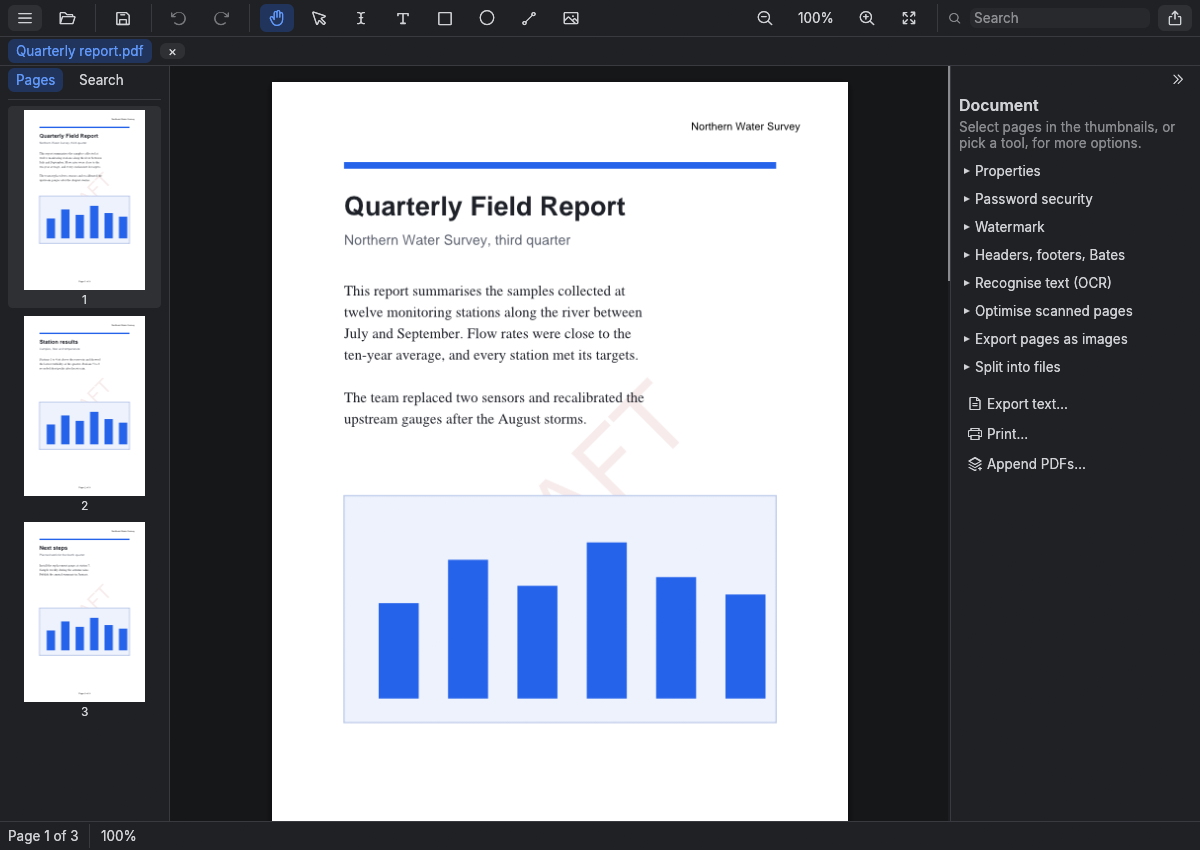
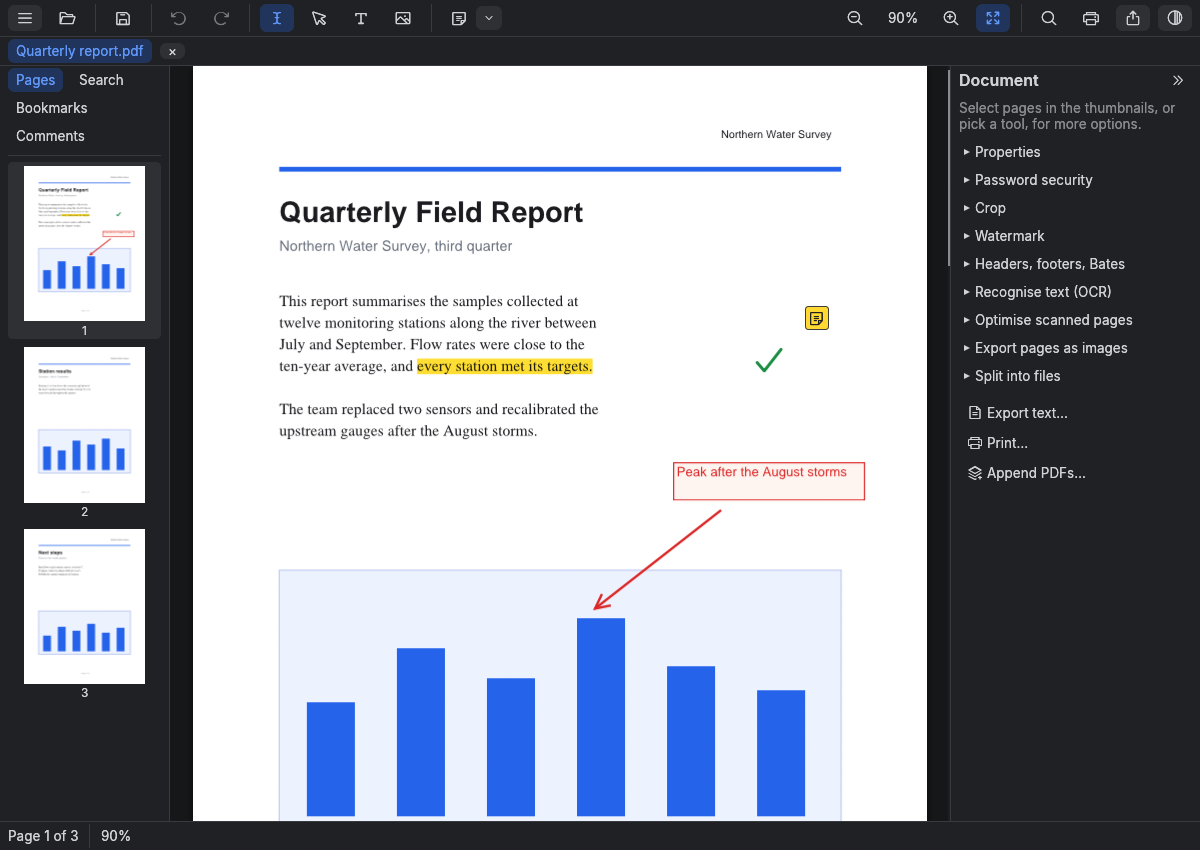
Update screenshot and clean up docs

diff --git a/docs/install.md b/docs/install.md
@@ -9,9 +9,9 @@ Each archive holds the desktop app (`mpe-gui`), the command-line tool (`mpe`), t
 licences, including those of the bundled OCR model and font. The Linux archive also has a desktop entry and icon
 ([below](#menu-entry-and-icon-on-linux)). Unpack it anywhere; there is no installer.
 
-The binaries are not code-signed, so the system warns the first time you run them. On macOS, right-click the app and
-choose Open, or run `xattr -d com.apple.quarantine mpe mpe-gui` in the unpacked folder. On Windows, choose
-More info, then Run anyway.
+The binaries are not code-signed, so the system warns the first time you run them. On macOS, run
+`xattr -d com.apple.quarantine mpe mpe-gui` in the unpacked folder, or try to run it once, then choose Open Anyway
+under System Settings > Privacy & Security. On Windows, choose More info, then Run anyway.
 
 Between releases, each run of the project's continuous integration on GitHub Actions builds the same archives; they
 are under the run's artifacts (this needs a GitHub sign-in).

diff --git a/README.md b/README.md
@@ -1,10 +1,11 @@
 # MPE
 
 MPE is a PDF viewer and editor for Linux, Windows and macOS, written entirely in Rust with no C or C++ dependencies.
-It organises, edits, fills in, stamps, secures, scans and prints PDFs, from a desktop app or the command line.
+It organises, edits, annotates, fills in, stamps, secures, scans and prints PDFs, from a desktop app or the command
+line.
 This is a from-scratch implementation (with AI assistance): it contains no other product's code, strings, stamps, fonts or other assets.
 
-![The MPE window: the top bar, page thumbnails on the left, a report open in the middle, and the inspector on the right](docs/images/mpe-gui.png)
+![The MPE window: the top bar, page thumbnails on the left, a report with a highlight, a note, a pen tick and an arrow with a text box in the middle, and the inspector on the right](docs/images/mpe-gui.png)
 
 ## Documentation
 

diff --git a/docs/security.md b/docs/security.md
@@ -16,8 +16,6 @@ them can be undone with Ctrl+Z, like any other change. On the command line: `mpe
 
 - Saving a document you opened with a password removes the protection, unless you set it again in Password security.
   The desktop app says so in a notice when such a document opens.
-- AES-256 files saved by MPE 0.2.0 and earlier show blank or garbled pages in viewers based on poppler, such as Okular
-  and Evince, because of a missing key length. To fix one, open it in MPE, set the password again and save.
 - Certificate encryption is not supported.
 
 ## How this was tested
